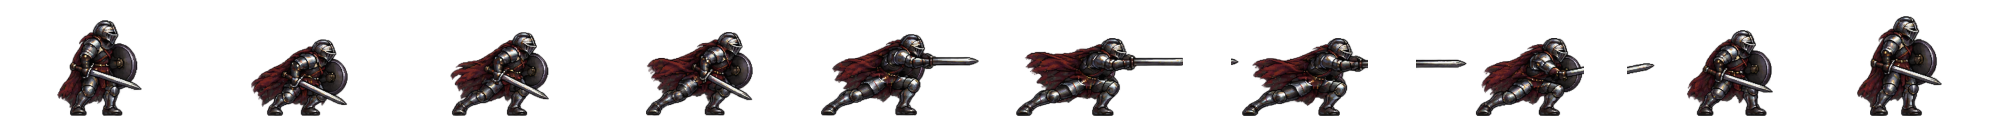
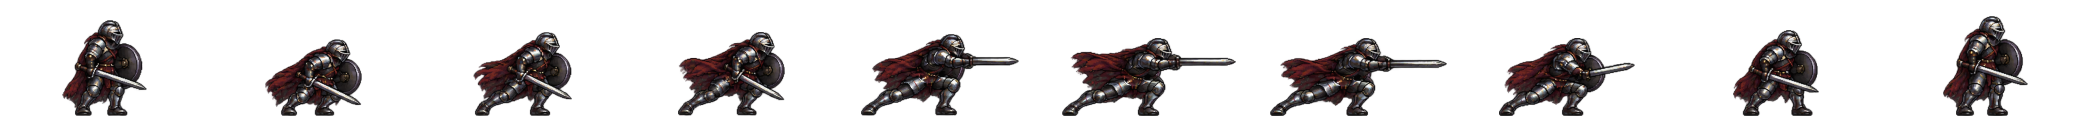
fix: keep knight sword tips within attack frames

diff --git a/prepare_independent_sprites.py b/prepare_independent_sprites.py
@@ -95,13 +95,32 @@ def grid_boundaries(sheet: pygame.Surface):
     return x_boundaries, [0, y_separator, height]
 
 
-def split_grid(sheet: pygame.Surface):
+def split_grid(sheet: pygame.Surface, *, separate_rows: bool = False):
     x_boundaries, y_boundaries = grid_boundaries(sheet)
+    row_boundaries = []
+    if separate_rows:
+        occupied = pygame.surfarray.array_alpha(sheet) > ALPHA_THRESHOLD
+        width = sheet.get_width()
+        for top, bottom in zip(y_boundaries, y_boundaries[1:]):
+            row_ink = occupied[:, top:bottom].sum(axis=1)
+            cuts = [0]
+            for column in range(1, GRID_COLUMNS):
+                nominal = width * column // GRID_COLUMNS
+                cut = closest_clear_separator(row_ink, nominal, width // 8)
+                if row_ink[cut]:
+                    raise RuntimeError(
+                        f"row {len(row_boundaries) + 1}, column {column}: "
+                        "no transparent gap between poses"
+                    )
+                cuts.append(cut)
+            cuts.append(width)
+            row_boundaries.append(cuts)
     frames = []
     metadata = []
     for row in range(GRID_ROWS):
+        boundaries = row_boundaries[row] if separate_rows else x_boundaries
         for column in range(GRID_COLUMNS):
-            left, right = x_boundaries[column], x_boundaries[column + 1]
+            left, right = boundaries[column], boundaries[column + 1]
             top, bottom = y_boundaries[row], y_boundaries[row + 1]
             frame = sheet.subsurface((left, top, right - left, bottom - top)).copy()
             bbox = opaque_bbox(frame)
@@ -116,7 +135,11 @@ def build_strip(prefix: str, animation: str, target_neutral_height: int):
     source_prefix = "boss" if prefix == "gundyr" else prefix
     source_path = SOURCE_DIR / f"{source_prefix}_{animation}.png"
     sheet = pygame.image.load(source_path).convert_alpha()
-    frames, metadata = split_grid(sheet)
+    # The lower-row thrusts in heavy_b extend across the upper row's cuts.
+    # Find independent transparent gaps so each blade remains with its owner.
+    frames, metadata = split_grid(
+        sheet, separate_rows=prefix == "hero" and animation == "heavy_b"
+    )
 
     # Death ends in a deliberately short lying pose. Scale from the initial
     # standing frame so the armor remains the same size as the other strips.

diff --git a/tests/test_sprite_slicing.py b/tests/test_sprite_slicing.py
@@ -1,0 +1,64 @@
+"""Regression checks for the knight's wide thrust animation."""
+
+import os
+import unittest
+
+os.environ["SDL_VIDEODRIVER"] = "dummy"
+os.environ["SDL_AUDIODRIVER"] = "dummy"
+
+import pygame
+
+from prepare_independent_sprites import (
+    ALPHA_THRESHOLD,
+    OUTPUT_DIR,
+    SAFETY_MARGIN,
+    SOURCE_DIR,
+    opaque_bbox,
+    split_grid,
+)
+
+
+def visible_fragments(frame):
+    mask = pygame.mask.from_surface(frame, ALPHA_THRESHOLD)
+    return [
+        rect
+        for rect in mask.get_bounding_rects()
+        if rect.width >= 4 and rect.height >= 3
+    ]
+
+
+class HeavySwordSlicingTests(unittest.TestCase):
+    @classmethod
+    def setUpClass(cls):
+        pygame.init()
+        pygame.display.set_mode((1, 1), flags=pygame.HIDDEN)
+
+    @classmethod
+    def tearDownClass(cls):
+        pygame.quit()
+
+    def test_wide_thrusts_stay_in_their_source_frames(self):
+        sheet = pygame.image.load(SOURCE_DIR / "hero_heavy_b.png").convert_alpha()
+        frames, _ = split_grid(sheet, separate_rows=True)
+
+        self.assertEqual(len(frames), 10)
+        for index in range(5, 9):
+            with self.subTest(frame=index + 1):
+                self.assertEqual(len(visible_fragments(frames[index])), 1)
+
+    def test_exported_frames_have_complete_silhouettes_and_safe_borders(self):
+        strip = pygame.image.load(OUTPUT_DIR / "hero_heavy_b.png").convert_alpha()
+        self.assertEqual(strip.get_width() % 10, 0)
+        cell_width = strip.get_width() // 10
+
+        for index in range(10):
+            with self.subTest(frame=index + 1):
+                frame = strip.subsurface((index * cell_width, 0, cell_width, strip.get_height()))
+                self.assertEqual(len(visible_fragments(frame)), 1)
+                bounds = opaque_bbox(frame)
+                self.assertGreaterEqual(bounds.left, SAFETY_MARGIN)
+                self.assertLessEqual(bounds.right, cell_width - SAFETY_MARGIN)
+
+
+if __name__ == "__main__":
+    unittest.main()
